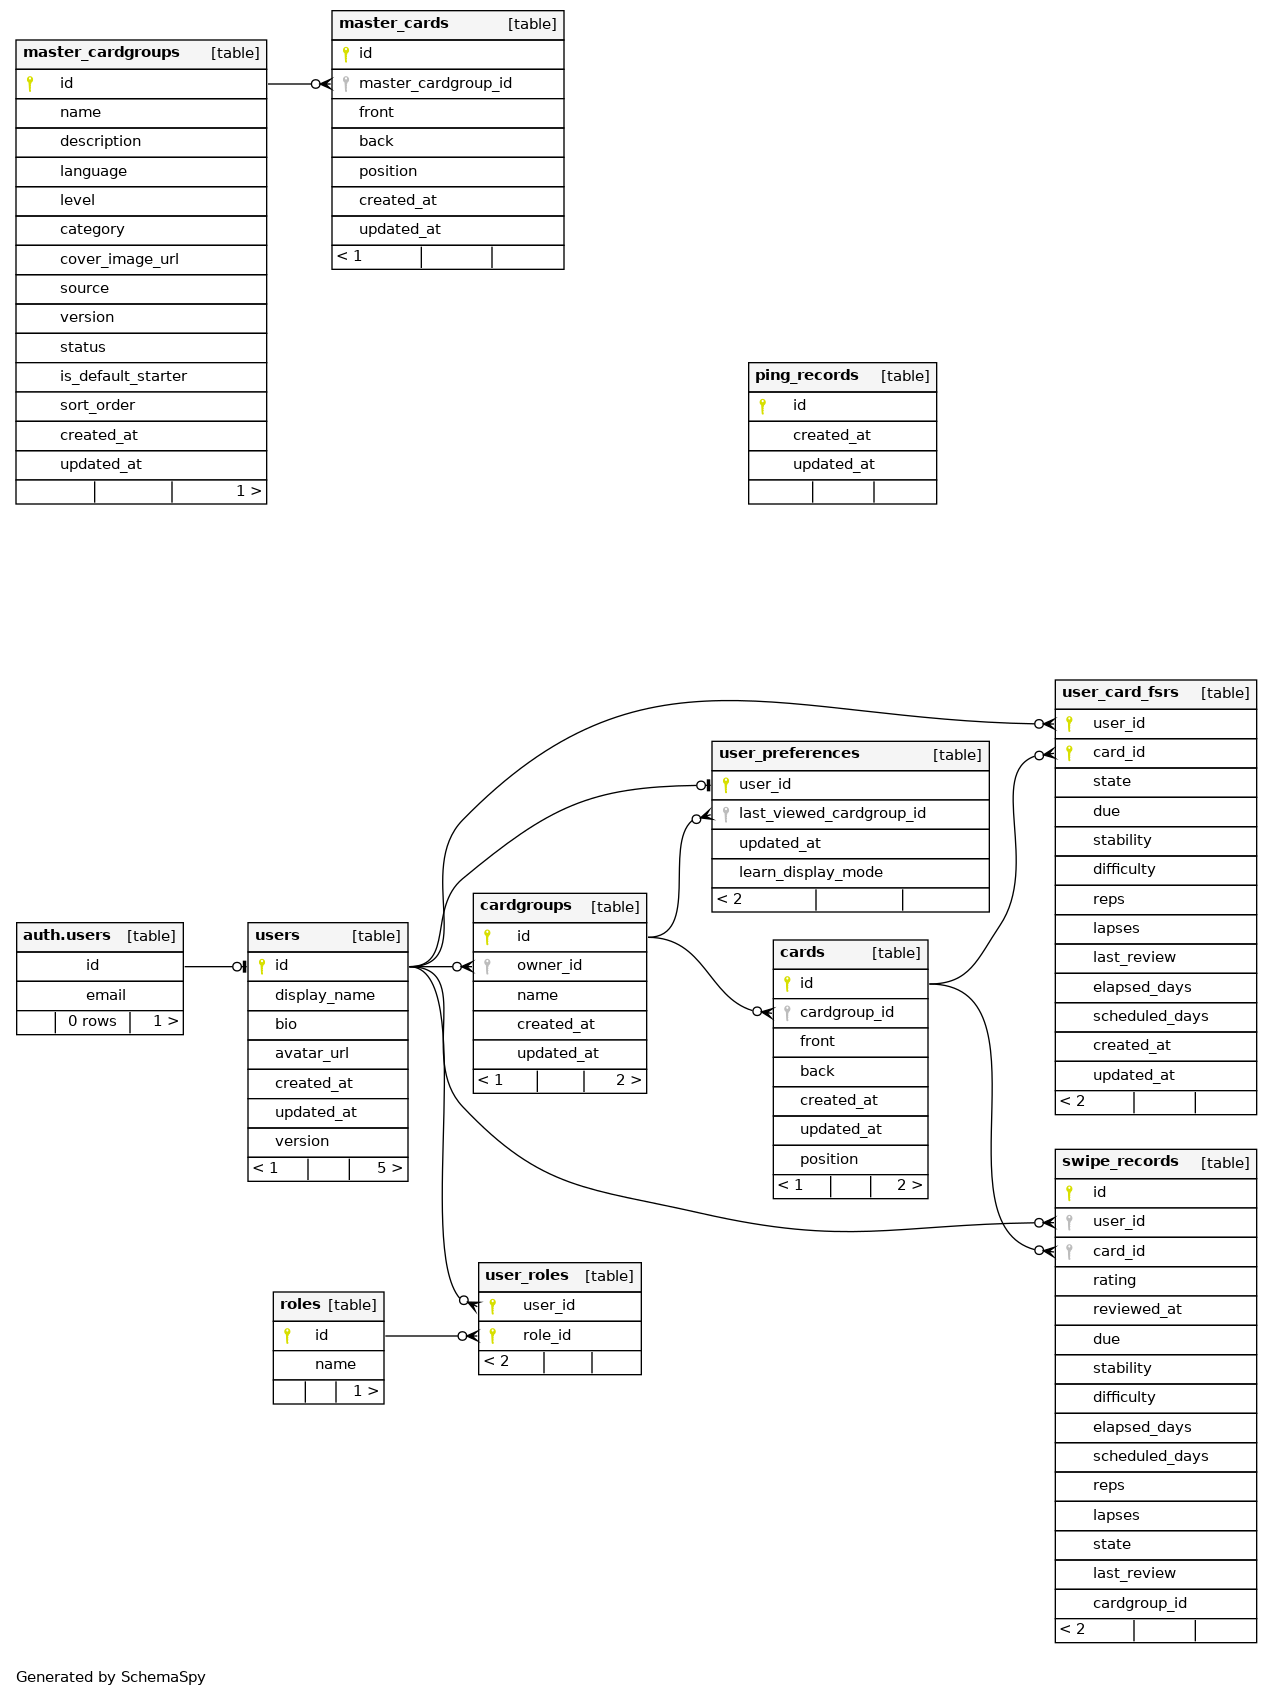
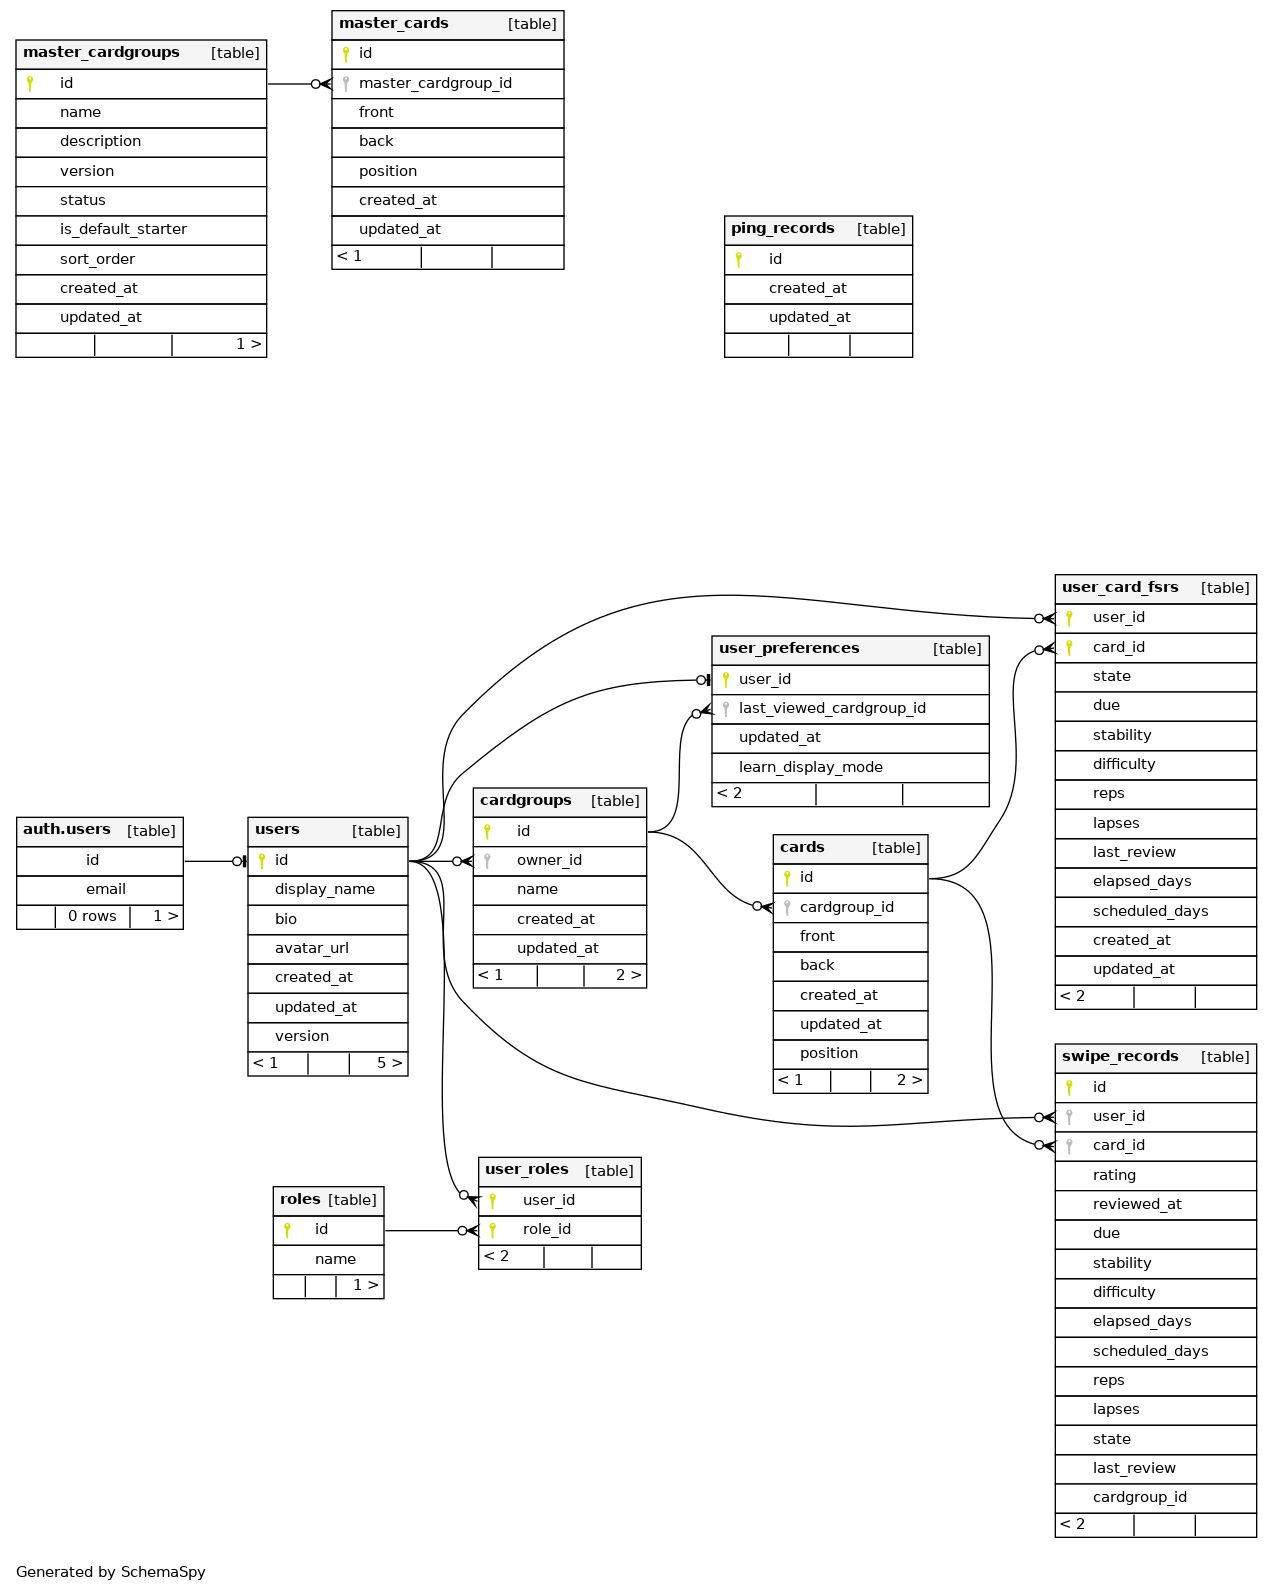
Deploying to gh-pages from @ yasuflatland-lf/flamingo-armond@095cb1137ee789c568f92685dd2e14ec37abce8c 🚀

diff --git a/er-chart/index.html b/er-chart/index.html
@@ -78,7 +78,7 @@
                         <div class="col-md-12">
                             <div class="callout callout-info">
                                 <h4>SchemaSpy Analysis of armond.public</h4>
-                                <p>Generated on Tue Jun 16 12:18 UTC 2026</p>
+                                <p>Generated on Thu Jun 25 03:10 UTC 2026</p>
                             </div>
                         </div>
                     </div>
@@ -118,7 +118,7 @@
                                 <span class="info-box-icon bg-green"><span class="glyphicon glyphicon-list-alt" aria-hidden="true"></span></span>
                                 <div class="info-box-content">
                                     <span class="info-box-text">COLUMNS</span>
-                                    <span class="info-box-number">79</span>
+                                    <span class="info-box-number">74</span>
                                 </div>
                                 <!-- /.info-box-content -->
                             </div>
@@ -209,7 +209,7 @@
                                         <td class="detail"><a href="tables/master_cardgroups.html">master_cardgroups</a></td>
                                         <td class="detail" align="right">1</td>
                                         <td class="detail" align="right">0</td>
-                                        <td class="detail" align="right">14</td>
+                                        <td class="detail" align="right">9</td>
                                         <td class="detail" align="right">-1</td>
                                         <td class="detail" align="right">Table</td>
                                         <td class="comment detail" style="display: table-cell;"></td>
@@ -224,19 +224,19 @@
                                         <td class="comment detail" style="display: table-cell;"></td>
                                     </tr>
                                     <tr class="tbl even" valign="top">
-                                        <td class="detail"><a href="tables/swipe_records.html">swipe_records</a></td>
+                                        <td class="detail"><a href="tables/roles.html">roles</a></td>
+                                        <td class="detail" align="right">1</td>
                                         <td class="detail" align="right">0</td>
                                         <td class="detail" align="right">2</td>
-                                        <td class="detail" align="right">15</td>
                                         <td class="detail" align="right">-1</td>
                                         <td class="detail" align="right">Table</td>
                                         <td class="comment detail" style="display: table-cell;"></td>
                                     </tr>
                                     <tr class="tbl even" valign="top">
-                                        <td class="detail"><a href="tables/roles.html">roles</a></td>
-                                        <td class="detail" align="right">1</td>
+                                        <td class="detail"><a href="tables/swipe_records.html">swipe_records</a></td>
                                         <td class="detail" align="right">0</td>
                                         <td class="detail" align="right">2</td>
+                                        <td class="detail" align="right">15</td>
                                         <td class="detail" align="right">-1</td>
                                         <td class="detail" align="right">Table</td>
                                         <td class="comment detail" style="display: table-cell;"></td>
@@ -278,19 +278,19 @@
                                         <td class="comment detail" style="display: table-cell;"></td>
                                     </tr>
                                     <tr class="tbl even" valign="top">
-                                        <td class="detail"><a href="tables/ping_records.html">ping_records</a></td>
-                                        <td class="detail" align="right">0</td>
-                                        <td class="detail" align="right">0</td>
-                                        <td class="detail" align="right">3</td>
+                                        <td class="detail"><a href="tables/cards.html">cards</a></td>
+                                        <td class="detail" align="right">2</td>
+                                        <td class="detail" align="right">1</td>
+                                        <td class="detail" align="right">7</td>
                                         <td class="detail" align="right">-1</td>
                                         <td class="detail" align="right">Table</td>
                                         <td class="comment detail" style="display: table-cell;"></td>
                                     </tr>
                                     <tr class="tbl even" valign="top">
-                                        <td class="detail"><a href="tables/cards.html">cards</a></td>
-                                        <td class="detail" align="right">2</td>
-                                        <td class="detail" align="right">1</td>
-                                        <td class="detail" align="right">7</td>
+                                        <td class="detail"><a href="tables/ping_records.html">ping_records</a></td>
+                                        <td class="detail" align="right">0</td>
+                                        <td class="detail" align="right">0</td>
+                                        <td class="detail" align="right">3</td>
                                         <td class="detail" align="right">-1</td>
                                         <td class="detail" align="right">Table</td>
                                         <td class="comment detail" style="display: table-cell;"></td>

diff --git a/er-chart/tables/master_cardgroups.html b/er-chart/tables/master_cardgroups.html
@@ -165,91 +165,6 @@
                                     <td></td>
                                 </tr>
                                 <tr>
-                                    <td><span id="language">language</span></td>
-                                    <td>text</td>
-                                    <td>2147483647</td>
-                                    <td title='nullable'>√</td>
-                                    <td title=''></td>
-                                    <td>null</td>
-                                    <td>
-                                        <table border='0' cellspacing='0' cellpadding='0'>
-                                        </table>
-                                    </td>
-                                    <td>
-                                        <table border='0' cellspacing='0' cellpadding='0'>
-                                        </table>
-                                    </td>
-                                    <td></td>
-                                </tr>
-                                <tr>
-                                    <td><span id="level">level</span></td>
-                                    <td>text</td>
-                                    <td>2147483647</td>
-                                    <td title='nullable'>√</td>
-                                    <td title=''></td>
-                                    <td>null</td>
-                                    <td>
-                                        <table border='0' cellspacing='0' cellpadding='0'>
-                                        </table>
-                                    </td>
-                                    <td>
-                                        <table border='0' cellspacing='0' cellpadding='0'>
-                                        </table>
-                                    </td>
-                                    <td></td>
-                                </tr>
-                                <tr>
-                                    <td><span id="category">category</span></td>
-                                    <td>text</td>
-                                    <td>2147483647</td>
-                                    <td title='nullable'>√</td>
-                                    <td title=''></td>
-                                    <td>null</td>
-                                    <td>
-                                        <table border='0' cellspacing='0' cellpadding='0'>
-                                        </table>
-                                    </td>
-                                    <td>
-                                        <table border='0' cellspacing='0' cellpadding='0'>
-                                        </table>
-                                    </td>
-                                    <td></td>
-                                </tr>
-                                <tr>
-                                    <td><span id="cover_image_url">cover_image_url</span></td>
-                                    <td>text</td>
-                                    <td>2147483647</td>
-                                    <td title='nullable'>√</td>
-                                    <td title=''></td>
-                                    <td>null</td>
-                                    <td>
-                                        <table border='0' cellspacing='0' cellpadding='0'>
-                                        </table>
-                                    </td>
-                                    <td>
-                                        <table border='0' cellspacing='0' cellpadding='0'>
-                                        </table>
-                                    </td>
-                                    <td></td>
-                                </tr>
-                                <tr>
-                                    <td><span id="source">source</span></td>
-                                    <td>text</td>
-                                    <td>2147483647</td>
-                                    <td title='nullable'>√</td>
-                                    <td title=''></td>
-                                    <td>null</td>
-                                    <td>
-                                        <table border='0' cellspacing='0' cellpadding='0'>
-                                        </table>
-                                    </td>
-                                    <td>
-                                        <table border='0' cellspacing='0' cellpadding='0'>
-                                        </table>
-                                    </td>
-                                    <td></td>
-                                </tr>
-                                <tr>
                                     <td><span id="version">version</span></td>
                                     <td>int4</td>
                                     <td>10</td>
@@ -458,7 +373,7 @@
                                     <div class="chart tab-pane active" id="oneDegreeImg-chart" style="position: relative; overflow-x:auto;">
                                         <map id="oneDegreeRelationshipsDiagram" name="oneDegreeRelationshipsDiagram">
 <area shape="rect" id="node1" href="master_cards.html" target="_top" title="master_cards" alt="" coords="437,5,691,181">
-<area shape="rect" id="node2" href="master_cardgroups.html" target="_top" title="master_cardgroups" alt="" coords="5,32,393,512">
+<area shape="rect" id="node2" href="master_cardgroups.html" target="_top" title="master_cardgroups" alt="" coords="5,32,393,365">
 </map>
                                         <a name='diagram'><img id="oneDegreeImg" src="../diagrams/tables/master_cardgroups.1degree.png" usemap="#oneDegreeRelationshipsDiagram" class="diagram" border="0" align="left"></a>
                                     </div>

diff --git a/er-chart/relationships.html b/er-chart/relationships.html
@@ -96,32 +96,32 @@
 <area shape="rect" id="node1" href="tables/master_cardgroups.html" target="_top" title="master_cardgroups" alt="" coords="251,35,523,240">
 <area shape="rect" id="node2" href="tables/cardgroups.html" target="_top" title="cardgroups" alt="" coords="463,489,657,665">
 <area shape="rect" id="node8" href="tables/users.html" target="_top" title="users" alt="" coords="237,519,419,665">
-<area shape="rect" id="node3" href="tables/swipe_records.html" target="_top" title="swipe_records" alt="" coords="1044,615,1267,849">
-<area shape="rect" id="node10" href="tables/cards.html" target="_top" title="cards" alt="" coords="763,533,939,709">
-<area shape="rect" id="node4" href="tables/roles.html" target="_top" title="roles" alt="" coords="262,792,394,915">
+<area shape="rect" id="node3" href="tables/roles.html" target="_top" title="roles" alt="" coords="262,792,394,915">
+<area shape="rect" id="node4" href="tables/swipe_records.html" target="_top" title="swipe_records" alt="" coords="1044,615,1267,849">
+<area shape="rect" id="node9" href="tables/cards.html" target="_top" title="cards" alt="" coords="763,533,939,709">
 <area shape="rect" id="node5" href="tables/user_card_fsrs.html" target="_top" title="user_card_fsrs" alt="" coords="1044,336,1267,512">
 <area shape="rect" id="node6" href="tables/user_preferences.html" target="_top" title="user_preferences" alt="" coords="701,369,1000,516">
 <area shape="rect" id="node7" href="tables/master_cards.html" target="_top" title="master_cards" alt="" coords="567,5,820,181">
 <area shape="rect" id="node12" title="auth.users" alt="" coords="5,524,193,612">
-<area shape="rect" id="node9" href="tables/ping_records.html" target="_top" title="ping_records" alt="" coords="925,123,1135,240">
+<area shape="rect" id="node10" href="tables/ping_records.html" target="_top" title="ping_records" alt="" coords="925,123,1135,240">
 <area shape="rect" id="node11" href="tables/user_roles.html" target="_top" title="user_roles" alt="" coords="468,763,652,885">
 </map>
                                         <a name='diagram'><img id="compactDegreeImg" src="diagrams/summary/relationships.real.compact.png" usemap="#compactRelationshipsDiagram" class="diagram" border="0" align="left"></a>
                                     </div>
                                     <div class="chart tab-pane " id="largeDegreeImg-chart" style="position: relative; overflow-x:auto;">
                                         <map id="largeRelationshipsDiagram" name="largeRelationshipsDiagram">
-<area shape="rect" id="node1" href="tables/master_cardgroups.html" target="_top" title="master_cardgroups" alt="" coords="5,35,277,509">
-<area shape="rect" id="node2" href="tables/cardgroups.html" target="_top" title="cardgroups" alt="" coords="463,888,657,1099">
-<area shape="rect" id="node8" href="tables/users.html" target="_top" title="users" alt="" coords="237,917,419,1187">
-<area shape="rect" id="node3" href="tables/swipe_records.html" target="_top" title="swipe_records" alt="" coords="1044,1144,1267,1648">
-<area shape="rect" id="node10" href="tables/cards.html" target="_top" title="cards" alt="" coords="763,935,939,1204">
-<area shape="rect" id="node4" href="tables/roles.html" target="_top" title="roles" alt="" coords="262,1287,394,1409">
-<area shape="rect" id="node5" href="tables/user_card_fsrs.html" target="_top" title="user_card_fsrs" alt="" coords="1044,675,1267,1120">
-<area shape="rect" id="node6" href="tables/user_preferences.html" target="_top" title="user_preferences" alt="" coords="701,736,1000,917">
+<area shape="rect" id="node1" href="tables/master_cardgroups.html" target="_top" title="master_cardgroups" alt="" coords="5,35,277,363">
+<area shape="rect" id="node2" href="tables/cardgroups.html" target="_top" title="cardgroups" alt="" coords="463,783,657,993">
+<area shape="rect" id="node8" href="tables/users.html" target="_top" title="users" alt="" coords="237,812,419,1081">
+<area shape="rect" id="node3" href="tables/roles.html" target="_top" title="roles" alt="" coords="262,1181,394,1304">
+<area shape="rect" id="node4" href="tables/swipe_records.html" target="_top" title="swipe_records" alt="" coords="1044,1039,1267,1543">
+<area shape="rect" id="node9" href="tables/cards.html" target="_top" title="cards" alt="" coords="763,829,939,1099">
+<area shape="rect" id="node5" href="tables/user_card_fsrs.html" target="_top" title="user_card_fsrs" alt="" coords="1044,569,1267,1015">
+<area shape="rect" id="node6" href="tables/user_preferences.html" target="_top" title="user_preferences" alt="" coords="701,631,1000,812">
 <area shape="rect" id="node7" href="tables/master_cards.html" target="_top" title="master_cards" alt="" coords="321,5,575,275">
-<area shape="rect" id="node12" title="auth.users" alt="" coords="5,917,193,1040">
-<area shape="rect" id="node9" href="tables/ping_records.html" target="_top" title="ping_records" alt="" coords="737,357,947,509">
-<area shape="rect" id="node11" href="tables/user_roles.html" target="_top" title="user_roles" alt="" coords="468,1257,652,1380">
+<area shape="rect" id="node12" title="auth.users" alt="" coords="5,812,193,935">
+<area shape="rect" id="node10" href="tables/ping_records.html" target="_top" title="ping_records" alt="" coords="713,211,923,363">
+<area shape="rect" id="node11" href="tables/user_roles.html" target="_top" title="user_roles" alt="" coords="468,1152,652,1275">
 </map>
                                         <a name='diagram'><img id="largeDegreeImg" src="diagrams/summary/relationships.real.large.png" usemap="#largeRelationshipsDiagram" class="diagram" border="0" align="left"></a>
                                     </div>

diff --git a/er-chart/columns.html b/er-chart/columns.html
@@ -326,76 +326,6 @@
         "tableType": "Table",
         "keyClass": "",
         "keyTitle": "",
-        "name": "language",
-        "type": "text",
-        "length": 2147483647,
-        "nullable": "√",
-        "autoUpdated": "",
-        "defaultValue": "null",
-        "comments": ""
-    },
-    {
-        "tableName": "master_cardgroups",
-        "tableFileName": "master_cardgroups",
-        "tableType": "Table",
-        "keyClass": "",
-        "keyTitle": "",
-        "name": "level",
-        "type": "text",
-        "length": 2147483647,
-        "nullable": "√",
-        "autoUpdated": "",
-        "defaultValue": "null",
-        "comments": ""
-    },
-    {
-        "tableName": "master_cardgroups",
-        "tableFileName": "master_cardgroups",
-        "tableType": "Table",
-        "keyClass": "",
-        "keyTitle": "",
-        "name": "category",
-        "type": "text",
-        "length": 2147483647,
-        "nullable": "√",
-        "autoUpdated": "",
-        "defaultValue": "null",
-        "comments": ""
-    },
-    {
-        "tableName": "master_cardgroups",
-        "tableFileName": "master_cardgroups",
-        "tableType": "Table",
-        "keyClass": "",
-        "keyTitle": "",
-        "name": "cover_image_url",
-        "type": "text",
-        "length": 2147483647,
-        "nullable": "√",
-        "autoUpdated": "",
-        "defaultValue": "null",
-        "comments": ""
-    },
-    {
-        "tableName": "master_cardgroups",
-        "tableFileName": "master_cardgroups",
-        "tableType": "Table",
-        "keyClass": "",
-        "keyTitle": "",
-        "name": "source",
-        "type": "text",
-        "length": 2147483647,
-        "nullable": "√",
-        "autoUpdated": "",
-        "defaultValue": "null",
-        "comments": ""
-    },
-    {
-        "tableName": "master_cardgroups",
-        "tableFileName": "master_cardgroups",
-        "tableType": "Table",
-        "keyClass": "",
-        "keyTitle": "",
         "name": "version",
         "type": "int4",
         "length": 10,

diff --git a/er-chart/tables/master_cards.html b/er-chart/tables/master_cards.html
@@ -309,12 +309,12 @@
                                 </thead>
                                 <tbody>
                                 <tr>
-                                    <td>master_cards_back_length</td>
-                                    <td>((char_length(TRIM(BOTH FROM back)) &gt;&#61; 1) AND (char_length(TRIM(BOTH FROM back)) &lt;&#61; 500))</td>
-                                </tr>
-                                <tr>
                                     <td>master_cards_front_length</td>
                                     <td>((char_length(TRIM(BOTH FROM front)) &gt;&#61; 1) AND (char_length(TRIM(BOTH FROM front)) &lt;&#61; 500))</td>
+                                </tr>
+                                <tr>
+                                    <td>master_cards_back_length</td>
+                                    <td>((char_length(TRIM(BOTH FROM back)) &gt;&#61; 1) AND (char_length(TRIM(BOTH FROM back)) &lt;&#61; 500))</td>
                                 </tr>
                                 </tbody>
                             </table>
